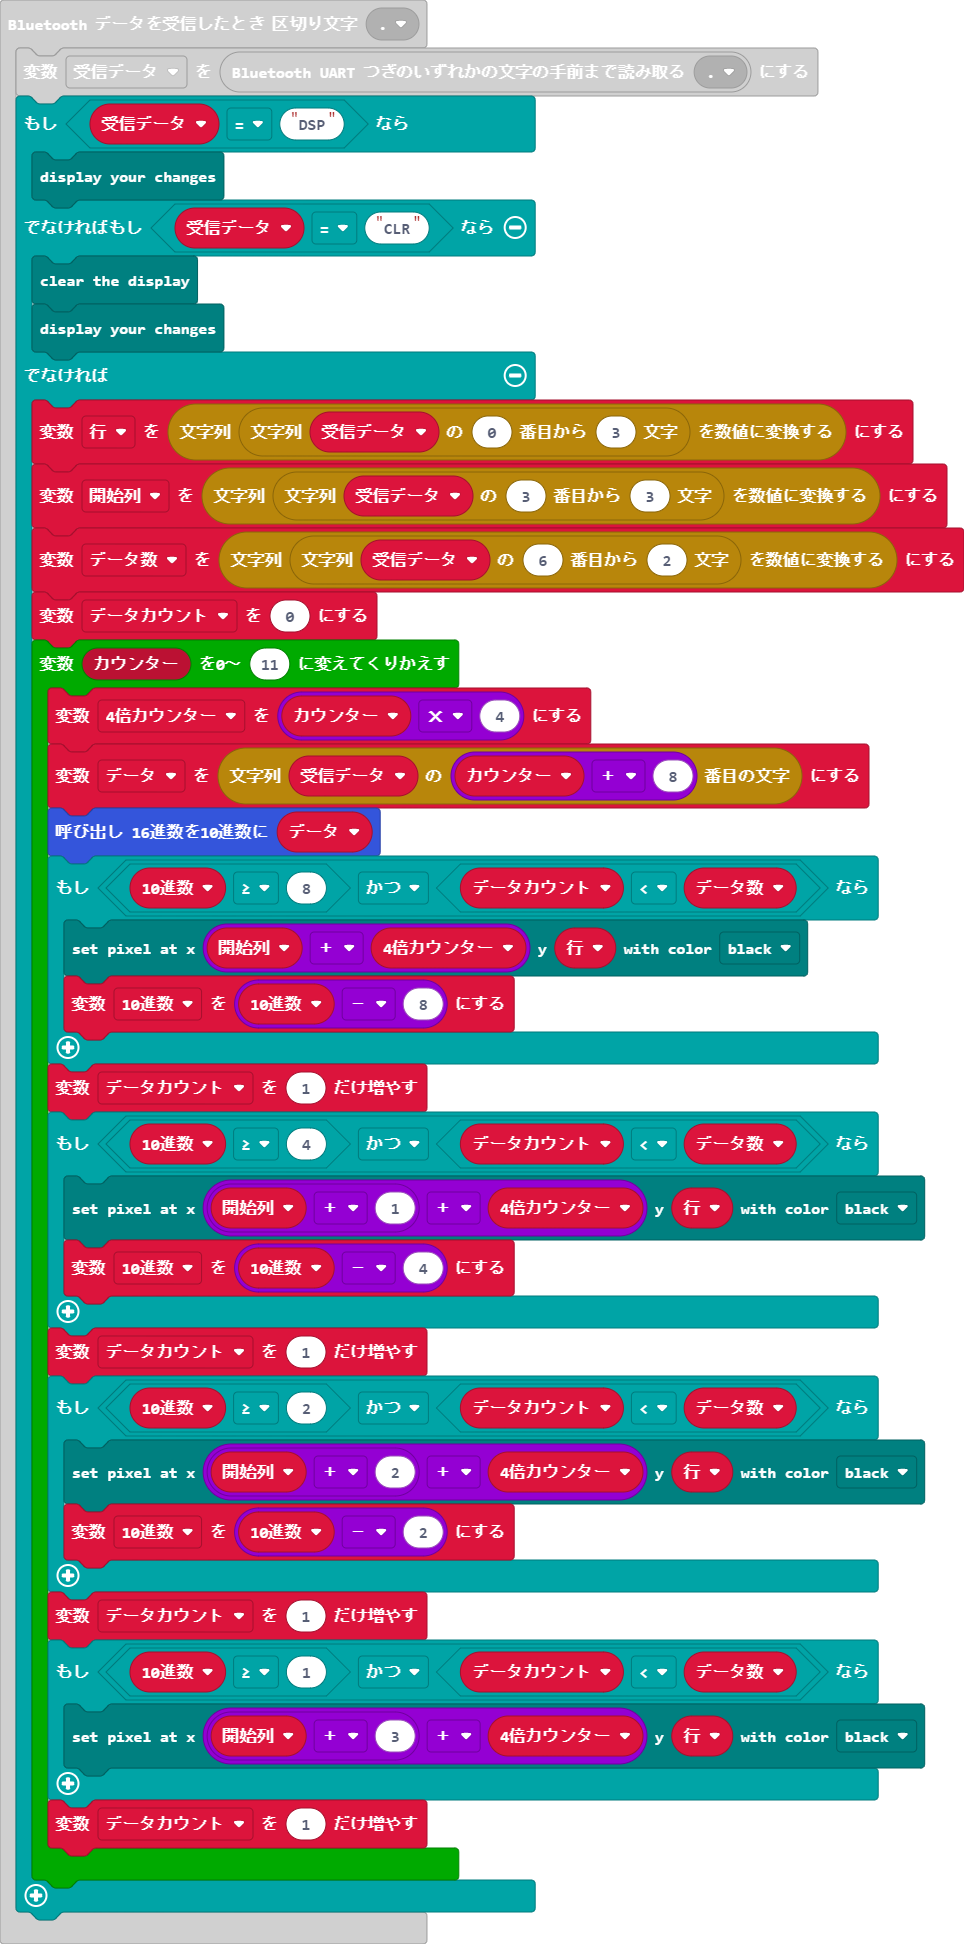
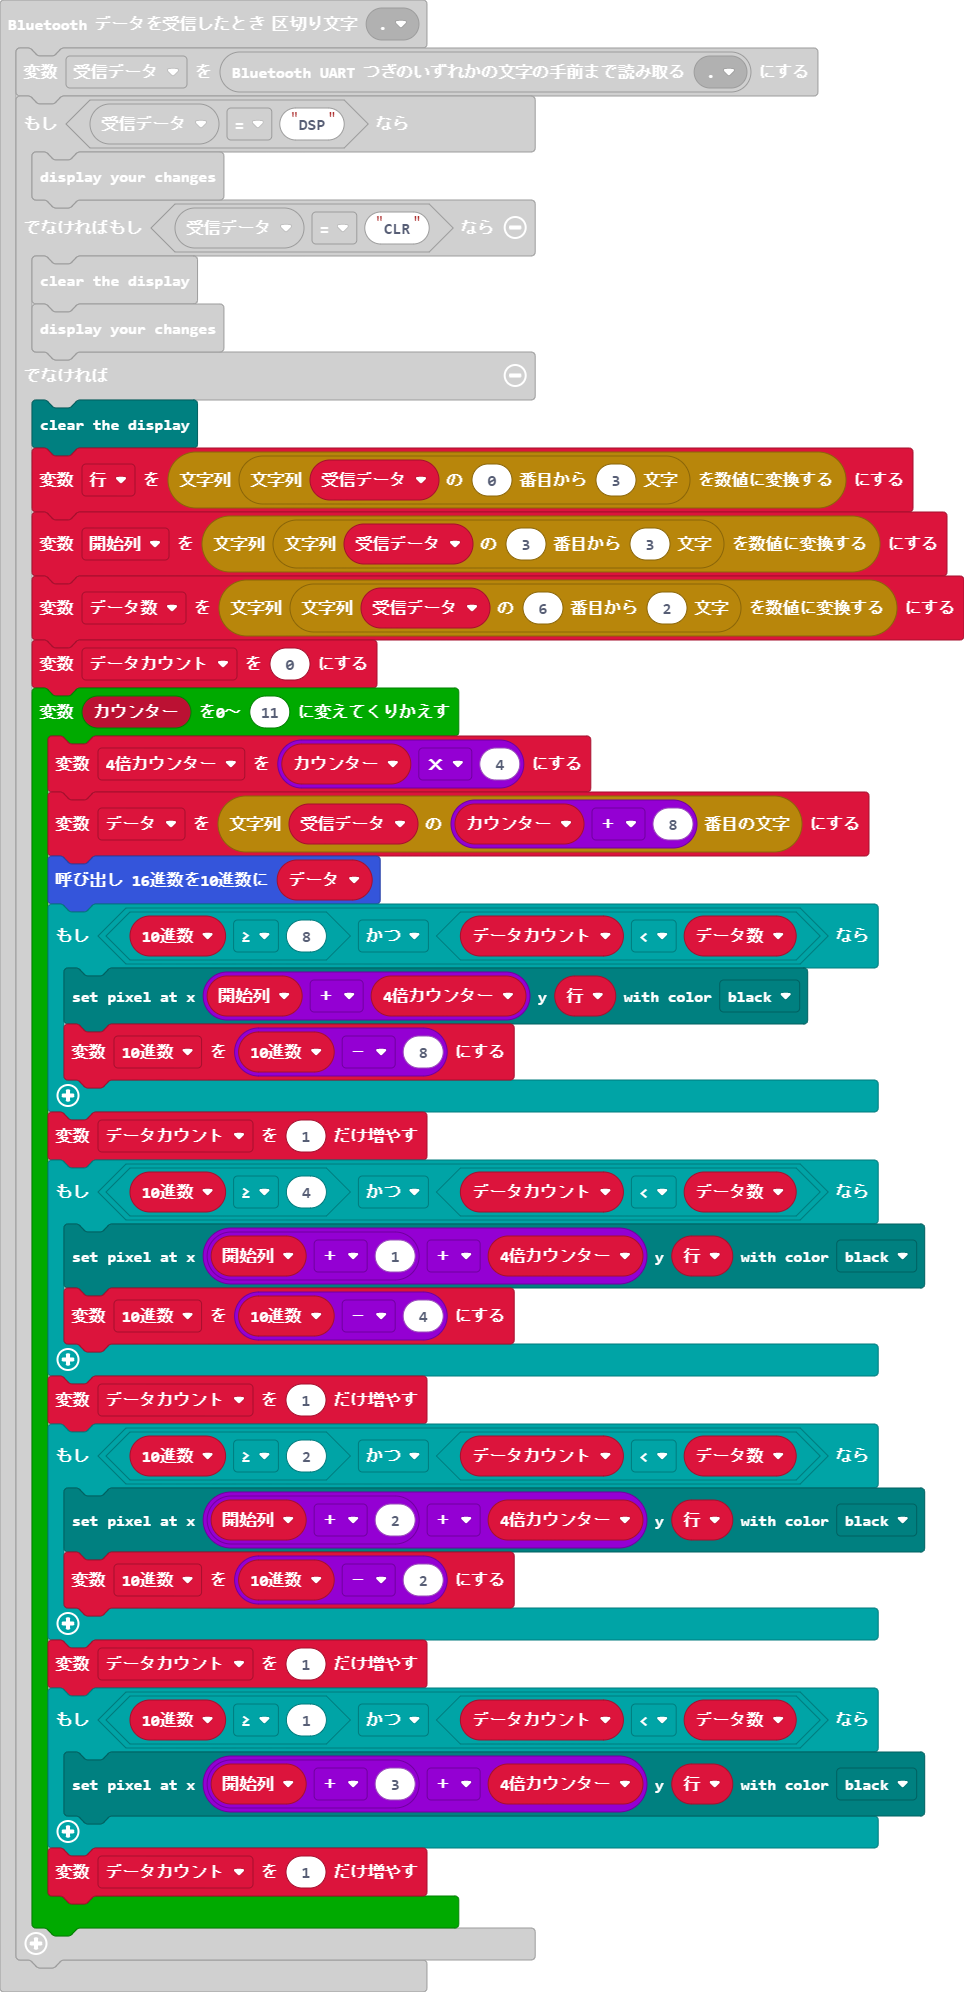
更新 main.blocks, main.ts

diff --git a/main.ts b/main.ts
@@ -15,6 +15,7 @@ bluetooth.onUartDataReceived(serial.delimiters(Delimiters.Fullstop), function ()
         inkybit.clear()
         inkybit.show()
     } else {
+        inkybit.clear()
         行 = parseFloat(受信データ.substr(0, 3))
         開始列 = parseFloat(受信データ.substr(3, 3))
         データ数 = parseFloat(受信データ.substr(6, 2))
